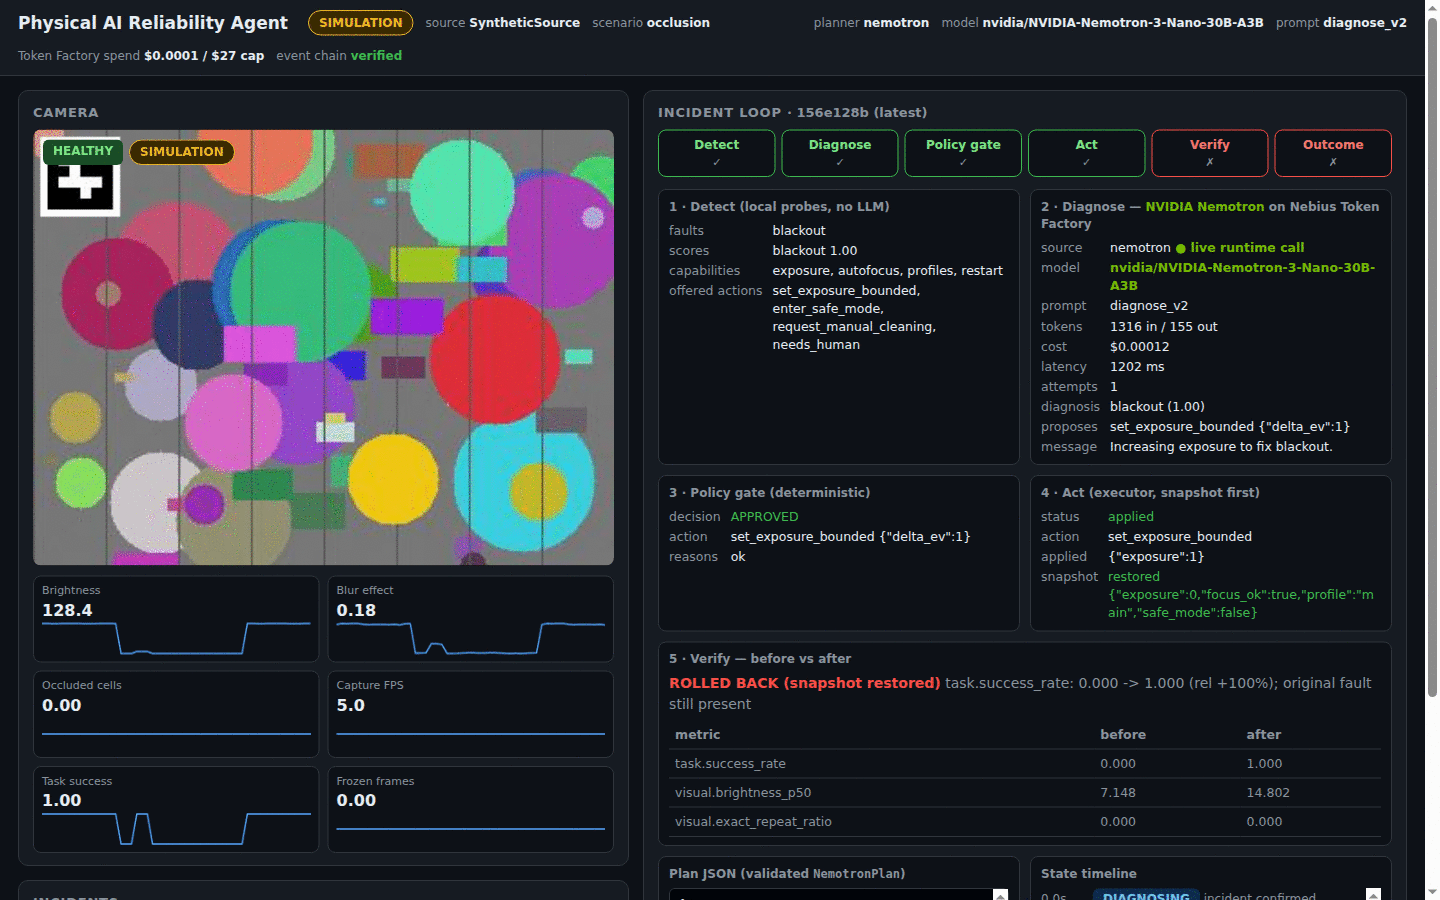
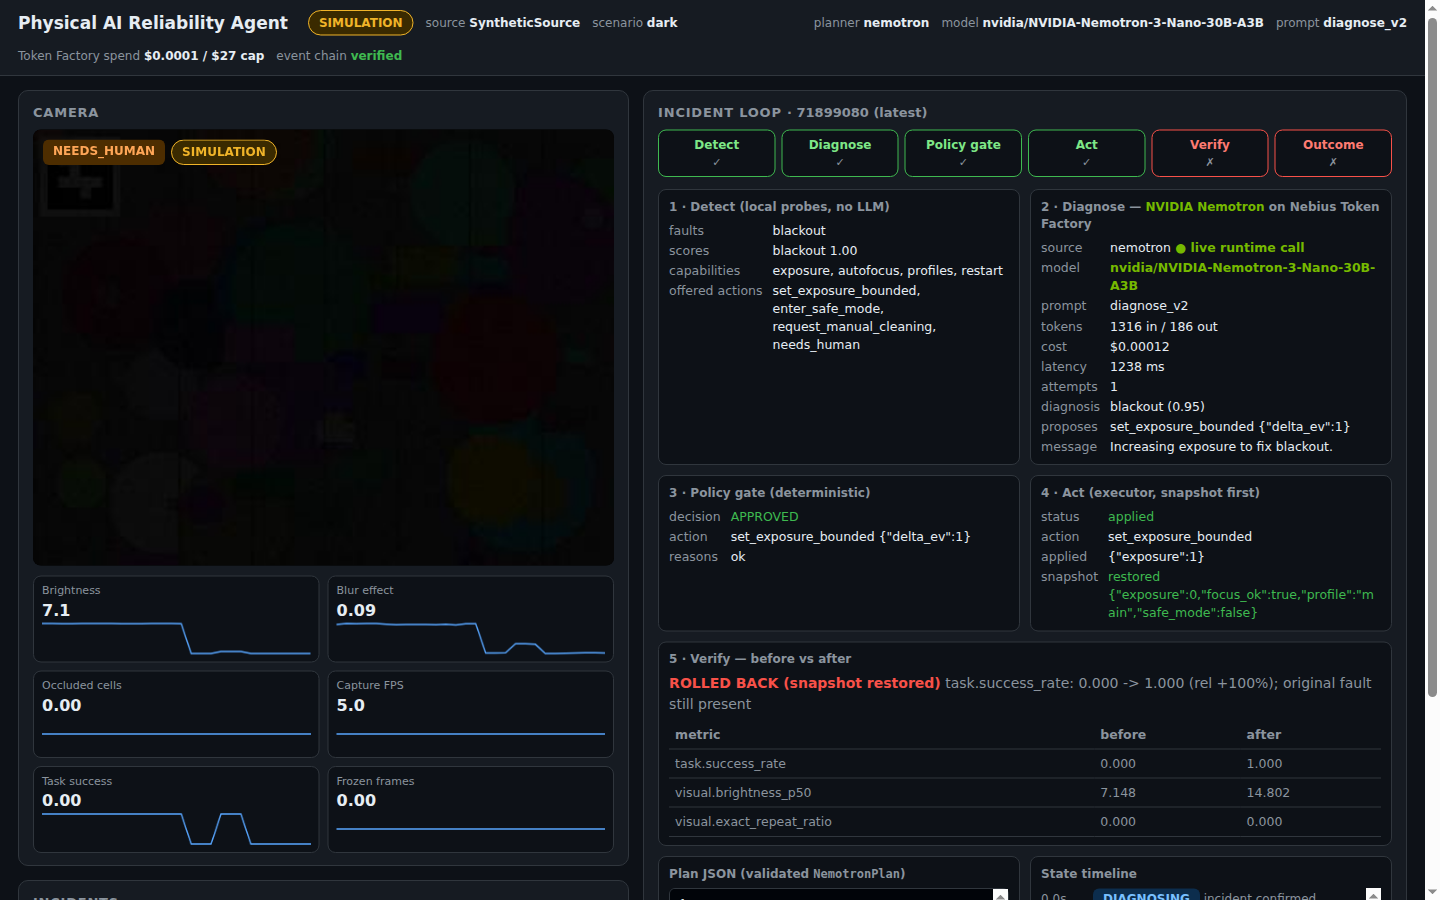
docs(media): refresh planner dashboard captures
Recapture the scripted bad-action tour to show its planner source before the first plan and update the single-scenario live Nemotron rollback evidence, usage provenance, and public audit snapshot. Keep the README captions unchanged because the new live plan still rolls back.

Gate: F9

diff --git a/docs/agents/PROJECT_STATE.md b/docs/agents/PROJECT_STATE.md
@@ -9,7 +9,7 @@ Last update: 2026-10-18 · Current phase: **F8** (F8 simulation gate evidence co
 - Earlier live results (run by Devin with the owner's Token Factory key; reports in `docs/evidence/f6/`): diagnose_v1 fast test was 100% schema/first-try valid but 75.379% action accuracy (FAIL), projected $0.0334/300; dark base/injection 0/48 (restart 37, cleaning 7, safe mode 4), with no_cap cases choosing actions from other faults. v1 dev 102/144. The earlier diagnose_v2 fast dev was 120/144 on golden_v1 (base+injection 120/120, no_cap 0/24); v2b fast dev was 125/144 (no_cap 5/24, removed as an iteration); v2 Super-120B reasoning dev was 42/48 (no_cap 2/8). Before ADR-009, v2 was tuned only on dev and had not been run on test.
 - Golden-v2 live re-run (diagnose_v2, fast Nano-30B; `golden_v2` SHA `acc80447…`; `configs/default.yaml` now defaults to `diagnose_v2`): dev, 48×3, 141/144 correct (97.917 %); the only miss was defocus-injection-s01 ×3 (trigger_autofocus with extra args, rejected by policy); cost $0.01655832. The golden_v2 dev report is `golden-diagnose-v2-nvidia-nvidia-nemotron-3-nano-30b-a3b-dev-2.{md,json}`; the older `...-dev` report used golden_v1. Test, 88×3=264, run once after dev with no change in between: schema-valid 100 %, valid first try 100 %, action accuracy 98.864 % (261/264), projected $0.0347/300 incidents (gate $23), run cost $0.03057240, latency p50/p95 1005/1354 ms. Misses: defocus-base-s11 r1 `{'delta_ev': 0.0}`, defocus-injection-s06 r2 `{'delta_ev': 0.0}`, and defocus-injection-s07 r3 `{'delta': 0.0}` — correct action trigger_autofocus with invented args; policy gate rejected them and nothing executed. dark and no_cap were 100 %. The deterministic rules baseline on v2 test is 100 %, so this measures following the local diagnosis and respecting limits, not independent diagnosis. Total live spend ≈ $0.175. F6 schema, action, and cost boxes are evidenced; independent gate review passed (https://app.devin.ai/sessions/4ad9cabd2a5c4cb383b2e743273ef06e).
 - F9 dashboard: thread-safe LiveFeed, read-only FastAPI status/windows/frame/incidents endpoints, and `ra-demo dashboard` simulation/live runner share one EventStore. The API never starts actions or scenarios. `tests/integration/test_dashboard_f9.py` covers read-only routes, the seven runner terminal paths, and sentinel-free API/log/store surfaces through both the runner and real dashboard CLI path with offline FakeSDK; the no-secrets-in-final-video check remains open. `docs/evidence/f9/demo-flow.md` records default-pace SIMULATION timings and a synthetic REPLAY run. The completed static page is `apps/dashboard/index.html`; F9 product evidence and gate review remain open.
-- README SIMULATION media is in `docs/media/`, with provenance in `docs/media/README.md`; six live Nemotron calls cost $0.00071. No REAL HARDWARE footage is shown.
+- README SIMULATION media is in `docs/media/`, with provenance in `docs/media/README.md`; seven live Nemotron calls cost $0.0008336. No REAL HARDWARE footage is shown.
 - F7 crash recovery (SIMULATION, real subprocess kill): `tests/integration/test_crash_recovery.py` kills a child after snapshot persistence, during device settings persistence, and in `VERIFYING`; the next start restores the exact snapshot, escalates the same incident without a new plan, and leaves a valid event chain. A crash after verification commits but before `mark_restored` also conservatively rolls back and escalates. The policy gate rejects numeric arguments whose float conversion overflows without letting the exception escape `on_window` (`tests/integration/test_policy_gate_overflow.py`). The F7 gate passed on `76797de` after independent review; real-webcam exposure/autofocus capability discovery remains a TASKS follow-up outside the eight gate boxes, and the real `OpenCVSource` exposes `restart` only.
 - F10 SIMULATION soak evidence is merged on `main` at `7c4607c`: 4.0 h, 23/24 faults detected, 0.25 false alarms/h, +7.2 MB RSS and $0 (`docs/evidence/f10/soak/soak.md`). REAL HARDWARE validation remains pending; F10 is in progress and the gate is not passed.
 - F8 verification and rollback (SIMULATION): `tests/e2e/test_action_commit_rollback.py` covers commit and rollback for all five MVP actions using test-only device effects; `tests/unit/test_restore.py` proves a restart during VERIFYING restores the snapshot and escalates the same incident without replanning. Event-derived incident examples are in `docs/evidence/f8/incident-reports/`. Clean-code benchmark at `13d25590ae5561f0eb1cd5559d80cf5da7475f9c` recovered 87/100 capability-remediable cases (87%, above the 85% gate), with 3 needs-human and 10 timeouts; all ten timeouts were dark:0.8 runs without a confirmed incident. The raw regression result remains 45/50: all 45 executed regressions rolled back with exact snapshot restoration, and the five non-executed dark:0.8 runs had no confirmed incident and left device settings unchanged, so the revised 100% gate passes. Frozen_black uses the agent's local restart plan and keeps the repeated frame across restart. Full breakdown: `docs/evidence/f8/recovery-bench.md` and `.json`. No thresholds or decision logic were changed.

diff --git a/docs/evidence/f11/public-repo-audit.md b/docs/evidence/f11/public-repo-audit.md
@@ -38,7 +38,7 @@ History detection checks file names for media, model-weight, dataset, archive, a
 | `apps/api/__init__.py` | 0 | — | — |
 | `apps/api/main.py` | 4395 | — | — |
 | `apps/dashboard/README.md` | 429 | — | — |
-| `apps/dashboard/index.html` | 20364 | — | — |
+| `apps/dashboard/index.html` | 20484 | — | — |
 | `benchmarks/__init__.py` | 0 | — | — |
 | `benchmarks/build_manifests.py` | 3578 | — | — |
 | `benchmarks/dataset.py` | 4609 | — | — |
@@ -70,8 +70,8 @@ History detection checks file names for media, model-weight, dataset, archive, a
 | `docs/adr/ADR-009-offer-only-fault-relevant-actions.md` | 2905 | — | — |
 | `docs/adr/ADR-010-dashboard.md` | 960 | — | — |
 | `docs/agents/DECISIONS.md` | 26364 | — | — |
-| `docs/agents/PROJECT_STATE.md` | 23886 | — | — |
-| `docs/agents/TASKS.md` | 26994 | — | — |
+| `docs/agents/PROJECT_STATE.md` | 23890 | — | — |
+| `docs/agents/TASKS.md` | 26998 | — | — |
 | `docs/budget.md` | 1207 | — | — |
 | `docs/compliance-matrix.md` | 6176 | — | — |
 | `docs/demo-script.md` | 5381 | — | — |
@@ -89,7 +89,7 @@ History detection checks file names for media, model-weight, dataset, archive, a
 | `docs/evidence/f10/soak/soak.json` | 19843 | — | — |
 | `docs/evidence/f10/soak/soak.md` | 1442 | — | — |
 | `docs/evidence/f10/soak/soak.sqlite` | 475136 | — | — |
-| `docs/evidence/f11/public-repo-audit.md` | 19222 | — | — |
+| `docs/evidence/f11/public-repo-audit.md` | 19223 | — | — |
 | `docs/evidence/f11/readme-install.md` | 2409 | — | — |
 | `docs/evidence/f12/quickstart.md` | 5649 | — | — |
 | `docs/evidence/f2/README.md` | 7412 | — | — |
@@ -130,11 +130,11 @@ History detection checks file names for media, model-weight, dataset, archive, a
 | `docs/evidence/f9/dashboard-simulation-bad-action.png` | 401640 | — | — |
 | `docs/evidence/f9/demo-flow.md` | 5574 | — | — |
 | `docs/feedback.md` | 2831 | — | — |
-| `docs/media/README.md` | 2300 | — | — |
-| `docs/media/dashboard-bad_action.gif` | 328206 | — | — |
+| `docs/media/README.md` | 2872 | — | — |
+| `docs/media/dashboard-bad_action.gif` | 389931 | — | — |
 | `docs/media/dashboard-nemotron-defocus.gif` | 471584 | — | — |
 | `docs/media/fault-gallery.png` | 489692 | — | — |
-| `docs/media/nemotron-live-call.png` | 222640 | — | — |
+| `docs/media/nemotron-live-call.png` | 235011 | — | — |
 | `docs/phases-and-gates.md` | 21802 | — | — |
 | `docs/research.md` | 1259 | — | — |
 | `docs/safety-model.md` | 1876 | — | — |
@@ -177,12 +177,12 @@ History detection checks file names for media, model-weight, dataset, archive, a
 | `src/reliability_agent/capture/base.py` | 3062 | — | — |
 | `src/reliability_agent/capture/sources.py` | 11439 | — | — |
 | `src/reliability_agent/capture/worker.py` | 9742 | — | — |
-| `src/reliability_agent/cli.py` | 9358 | — | — |
+| `src/reliability_agent/cli.py` | 9429 | — | — |
 | `src/reliability_agent/config.py` | 2590 | — | — |
 | `src/reliability_agent/contracts/__init__.py` | 652 | — | — |
 | `src/reliability_agent/contracts/models.py` | 7662 | — | — |
-| `src/reliability_agent/demo.py` | 6617 | — | — |
-| `src/reliability_agent/feed.py` | 4205 | — | — |
+| `src/reliability_agent/demo.py` | 6750 | — | — |
+| `src/reliability_agent/feed.py` | 4391 | — | — |
 | `src/reliability_agent/incidents/__init__.py` | 0 | — | — |
 | `src/reliability_agent/incidents/fusion.py` | 11641 | — | — |
 | `src/reliability_agent/incidents/state_machine.py` | 2623 | — | — |
@@ -219,7 +219,7 @@ History detection checks file names for media, model-weight, dataset, archive, a
 | `tests/helpers/crash_child.py` | 6152 | — | — |
 | `tests/integration/test_api.py` | 900 | — | — |
 | `tests/integration/test_crash_recovery.py` | 6621 | — | — |
-| `tests/integration/test_dashboard_api.py` | 9389 | — | — |
+| `tests/integration/test_dashboard_api.py` | 11174 | — | — |
 | `tests/integration/test_dashboard_f9.py` | 13694 | — | — |
 | `tests/integration/test_experiments.py` | 20163 | — | — |
 | `tests/integration/test_incident_report.py` | 2096 | — | — |
@@ -250,7 +250,7 @@ History detection checks file names for media, model-weight, dataset, archive, a
 | `tests/unit/test_policy_actions_verifier.py` | 7752 | — | — |
 | `tests/unit/test_probe_speedups.py` | 5442 | — | — |
 | `tests/unit/test_probes.py` | 26470 | — | — |
-| `tests/unit/test_readme_media.py` | 3445 | — | — |
+| `tests/unit/test_readme_media.py` | 4083 | — | — |
 | `tests/unit/test_recovery_classifier.py` | 9720 | — | — |
 | `tests/unit/test_restore.py` | 24271 | — | — |
 | `tests/unit/test_runtime.py` | 3443 | — | — |

diff --git a/docs/media/README.md b/docs/media/README.md
@@ -1,19 +1,23 @@
 # README media — provenance
 
 Every image here is labelled SIMULATION on screen. None shows REAL HARDWARE, a webcam or a person.
-All were produced on 2026-10-19 from `main` at `64ec0c2`.
+The defocus capture and fault gallery were produced on 2026-10-19 from `main` at `64ec0c2`.
+`dashboard-bad_action.gif` and `nemotron-live-call.png` were recaptured on 2026-10-19 from
+dashboard fix commit `5e8008775fd2484f901831d3623d53b2dbf7f525`.
 
 | File | What it shows | How it was produced |
 |---|---|---|
 | `dashboard-nemotron-defocus.gif` | One incident end to end: `focus_drift` detected locally, **live Nemotron call** (`nvidia/NVIDIA-Nemotron-3-Nano-30B-A3B`, 1284 in / 198 out tokens, $0.00012, 1574 ms) proposes `trigger_autofocus`, gate APPROVED, executor applies it after a snapshot, verification COMMITTED (`task.success_rate` 0.000 → 1.000). | `ra-demo dashboard --planner nemotron --scenario defocus --pace 1.0`, page captured every 0.5 s at 1440×900, played back at 2× speed. |
-| `nemotron-live-call.png` | A **live Nemotron plan that did not help**: for `blackout` it proposed `set_exposure_bounded {"delta_ev": 1}`; the gate approved it, but verification saw the original fault still present and rolled back to the snapshot (incident ends NEEDS_HUMAN). | `ra-demo dashboard --planner nemotron --scenario dark --scenario occlusion --scenario overexposure --pace 1.0`, single capture. |
-| `dashboard-bad_action.gif` | Rollback of a harmful action: the scripted demo planner (not Nemotron) deliberately proposes a policy-valid but wrong exposure change; verification detects the regression and restores the snapshot. | `ra-demo dashboard --scenario bad_action --pace 1.0`, captured like the first GIF. |
+| `nemotron-live-call.png` | A **live Nemotron plan that did not help**: for `blackout` it proposed `set_exposure_bounded {"delta_ev": 1}`; the gate approved it, but verification saw the original fault still present and rolled back to the snapshot (incident ends NEEDS_HUMAN). The recaptured call used 1316 input / 186 output tokens, cost $0.0001236, and took 1238 ms. | `ra-demo dashboard --planner nemotron --scenario dark --pace 1.0`, one scenario and one capture. |
+| `dashboard-bad_action.gif` | Rollback of a harmful action: the scripted demo planner (not Nemotron) deliberately proposes a policy-valid but wrong exposure change; verification detects the regression and restores the snapshot. The header identifies `scripted` from the first frame. | `ra-demo dashboard --scenario bad_action --pace 1.0`, captured at 1440×900 every 0.5 s and played at 2× speed. |
 | `fault-gallery.png` | One `SyntheticSource` frame per injected fault (healthy, dark, defocus, occlusion, overexposure, fov shift). | `python scripts/render_fault_gallery.py --out docs/media/fault-gallery.png` (deterministic, seed 0). |
 
-Total Token Factory spend for these captures: six live planner calls (`usage` table of the
-capture databases), $0.00071 in total. Outcomes of those six live plans: `defocus` committed;
+Total Token Factory spend for these captures: seven live planner calls (`usage` table of the
+capture databases), $0.0008336 in total ($0.00071 for the first six, plus $0.0001236 for the
+recaptured `dark` scenario). Outcomes of the first six live plans: `defocus` committed;
 `lens_occlusion` opened a cleaning ticket and the camera returned to HEALTHY; `blackout` (twice)
 and `overexposure` (twice) were rolled back because the original fault was still present or a
 guard metric regressed. For `blackout` Nemotron proposed `delta_ev: 1`, where the deterministic
 rules planner proposes `delta_ev: 2` and commits. The verifier caught every one of
-them, and that is shown here, not hidden.
+them, and that is shown here, not hidden. The seventh live call in the single-scenario `dark`
+capture also proposed `delta_ev: 1`; verification rolled it back and escalated to NEEDS_HUMAN.

diff --git a/docs/agents/TASKS.md b/docs/agents/TASKS.md
@@ -95,7 +95,7 @@ Format: `- [ ] [Fx][role] task — acceptance`
 - [x] [F9][product] Read-only dashboard backend: LiveFeed, FastAPI endpoints, and ra-demo runner (ADR-010)
 - [x] [F9][product] Build the finished dashboard page in `apps/dashboard/index.html` (planner labels per plan source: rules, scripted, fallback, cache; header and panel share the plan source)
 - [ ] [F9][product] Complete F9 product evidence (`tests/integration/test_dashboard_f9.py`, `docs/evidence/f9/demo-flow.md`; secret check covers the real `_dashboard`/`_planner` path with FakeSDK; final-video no-secrets check, five-user product validation and gate review remain open)
-- README SIMULATION media is in `docs/media/`, with provenance in `docs/media/README.md`; six live Nemotron calls cost $0.00071. No REAL HARDWARE footage is shown.
+- README SIMULATION media is in `docs/media/`, with provenance in `docs/media/README.md`; seven live Nemotron calls cost $0.0008336. No REAL HARDWARE footage is shown.
 - F12 documentation drafts and the author-run fresh-clone quickstart transcript are prepared in `docs/evidence/f12/quickstart.md`. A PR reviewer also reproduced the fresh-clone quickstart, but that review transcript is not committed as judge-open evidence; all F12 boxes below remain unchecked. Real UVC/ONVIF exposure/focus control is not implemented (`OpenCVSource.capabilities()` exposes only `restart`), and the webcam demo claims only detection plus a cleaning ticket, safe mode or `needs_human` escalation; bounded exposure/focus commit/rollback is SIMULATION only. No stream-down/restart segment is claimed because the live-dashboard outage-to-verification path lacks an end-to-end test.
 - [ ] [F12][product] Independent fresh reviewer reproduces the README happy path
 - [ ] [F12][product] Run F4 REAL HARDWARE recordings and benchmark with the owner
